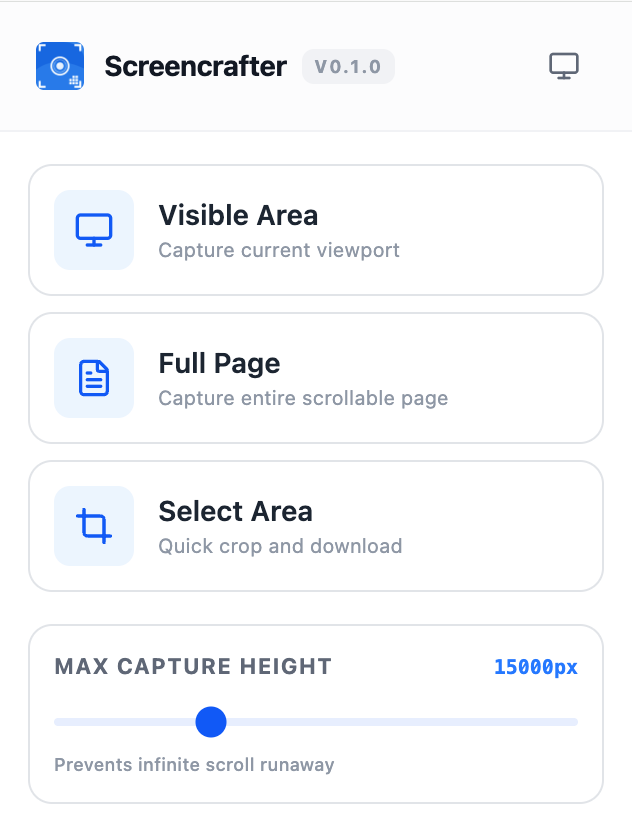
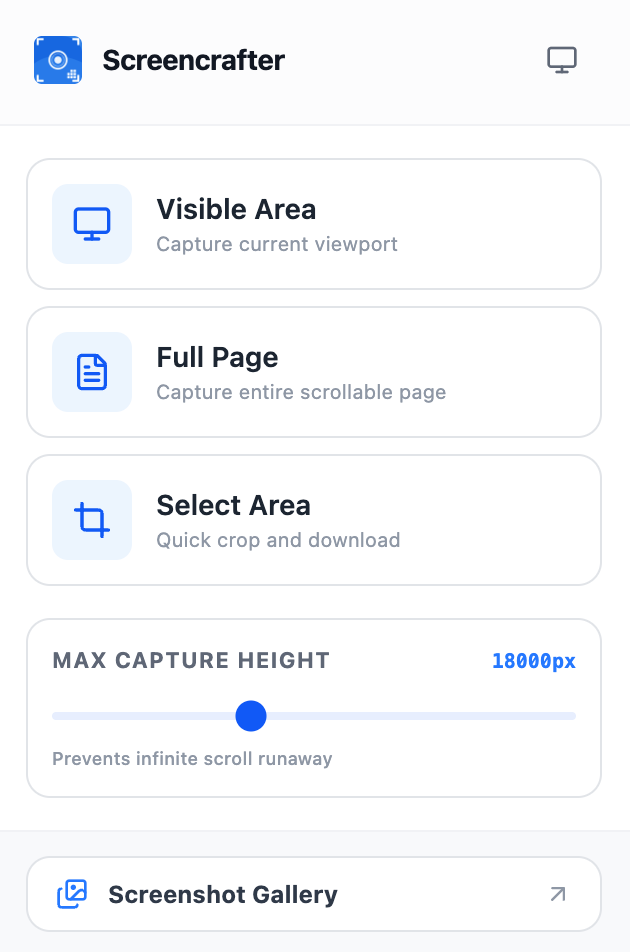
chore: version bump to 0.2.0

diff --git a/wxt.config.ts b/wxt.config.ts
@@ -4,7 +4,7 @@ import tailwindcss from '@tailwindcss/vite';
 export default defineConfig({
   modules: ['@wxt-dev/module-react'],
   manifest: {
-    version: '0.1.0',
+    version: '0.2.0',
     permissions: ['activeTab', 'tabs', 'storage', 'unlimitedStorage', 'downloads', 'scripting'],
     name: 'Screencrafter - Full Page Screenshot Tool',
     description: 'Capture, annotate, and save full page screenshots with ease.',

diff --git a/entrypoints/popup/App.tsx b/entrypoints/popup/App.tsx
@@ -5,7 +5,7 @@ import { useTheme } from '@/hooks/useTheme';
 import { ThemeToggle } from '@/components/ThemeToggle';
 import { Logo } from '@/components/Logo';
 
-const VERSION = '0.1.0';
+const VERSION = '0.2.0';
 
 const RESTRICTED_PREFIXES = [
   'chrome://', 'chrome-extension://', 'edge://', 'about:',

diff --git a/README.md b/README.md
@@ -6,7 +6,7 @@
 </p>
 
 <p align="center">
-  <img src="https://img.shields.io/badge/Version-0.1.0-blue.svg" alt="Version">
+  <img src="https://img.shields.io/badge/Version-0.2.0-blue.svg" alt="Version">
   <img src="https://img.shields.io/badge/Built_with-WXT-6366f1.svg" alt="WXT">
   <img src="https://img.shields.io/badge/Security-Hardened-green.svg" alt="Security">
   <img src="https://img.shields.io/badge/License-MIT-gray.svg" alt="License">
